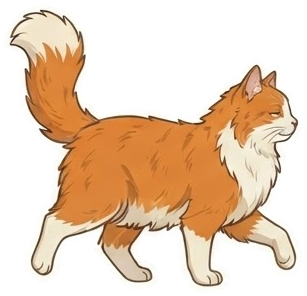
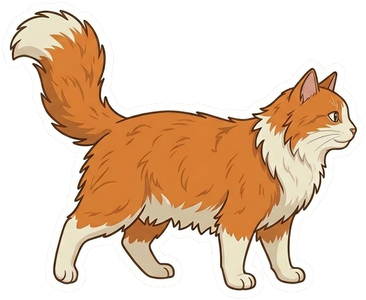
歩きのコマを脚が動く新しい絵に差し替え (#7)
- Gemini で作った歩き4コマ（市松模様が描き込まれた JPG）から背景を抜いて透過 PNG にし、4コマとも同じ位置で切り出し
- 脚が動くようになったので、傾き・弾みは控えめに

Claude-Session: https://claude.ai/code/session_01N2RdfoDzKy9hRRd1tp6u73

diff --git a/src/render/catDoll.ts b/src/render/catDoll.ts
@@ -6,7 +6,7 @@ const STAND = 1.45; // 立ち姿の高さ（ワールド単位）。カメラを
 /** 画像名と、1ピクセルあたりのワールド長。素材ごとに描かれた縮尺が違うので個別に揃える。 */
 const FRAMES: Record<string, number> = {
   A04_blink_1: STAND / 365, A04_blink_2: STAND / 365, A04_blink_3: STAND / 365,
-  A01_walk_1: STAND / 297, A01_walk_2: STAND / 297, A01_walk_3: STAND / 297, A01_walk_4: STAND / 297,
+  A01_walk_1: STAND / 300, A01_walk_2: STAND / 300, A01_walk_3: STAND / 300, A01_walk_4: STAND / 300,
   A02_run_1: STAND / 297, A02_run_2: STAND / 297, A02_run_3: STAND / 297, A02_run_4: STAND / 297,
   A05_jump_1: STAND / 297, A05_jump_2: STAND / 297, A05_jump_3: STAND / 297, A05_jump_4: STAND / 297,
   A03_turn_4: STAND / 322,
@@ -63,13 +63,12 @@ export class CatDoll {
     let name: string, bob = 0, sy = 1, tilt = 0;
     switch (state) {
       case "walk": {
-        // 歩き素材は脚の動きが小さいので、紙人形らしく左右に傾けながら小さく弾ませて歩かせる
-        this.stride += dt * (1.6 + speed * 0.45);           // 1歩 = stride 1（速さ5.2で約4歩/秒）
+        // 4コマ = 2歩（そろう→右足→そろう→左足）。紙人形らしく、歩みに合わせてわずかに弾ませて傾ける
+        this.stride += dt * (1.2 + speed * 0.35);           // 1歩 = stride 1（速さ5.2で約3歩/秒）
         const ph = this.stride * Math.PI;
         name = `A01_walk_${(Math.floor(this.stride * 2) % 4) + 1}`;
-        bob = Math.abs(Math.sin(ph)) * 0.12;
-        tilt = Math.sin(ph) * 0.12;
-        sy = 1 - Math.abs(Math.cos(ph)) * 0.035;            // 着地でわずかにつぶれる
+        bob = Math.abs(Math.sin(ph)) * 0.05;
+        tilt = Math.sin(ph) * 0.035;
         break;
       }
       case "jump": {
